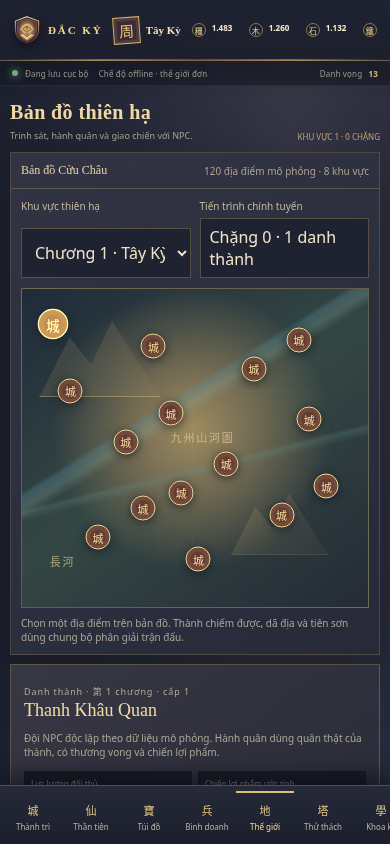
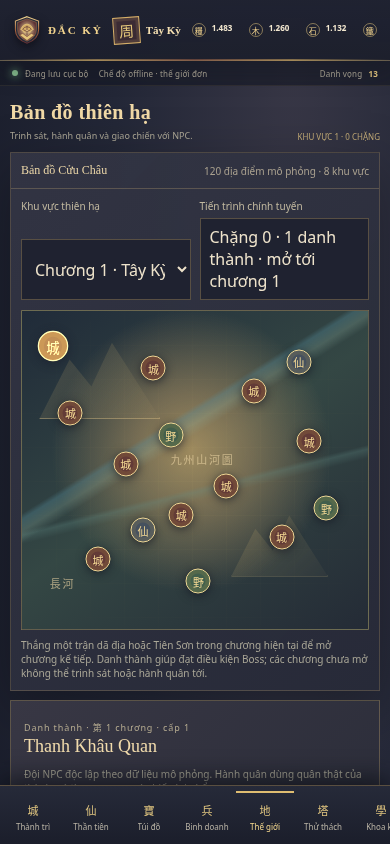
Gate Dacky campaign by chapter progress

Changed region(s): [[0.0308, 0.2773, 0.9538, 0.9242], [0.2154, 0.6161, 0.2769, 0.6777]]

diff --git a/DackyMobile/src/ui.js b/DackyMobile/src/ui.js
@@ -1,5 +1,5 @@
 import { BUILDINGS, CONTENT_EVIDENCE, HEROES, IMMORTAL_MOUNTAINS, ITEMS, QUESTS, RESOURCE_INFO, TECHNOLOGIES, TROOPS, WORLD_NODES, BUZHOU_FLOORS, TOWER_FLOORS } from './catalog.js';
-import { activeQuest, armyCount, armyPower, formatDuration, formatNumber, heroPower, productionPerHour, questProgress, quoteBuilding, quoteCityUpgrade, quoteItemPurchase, quoteResearch, quoteTraining, storageCapacity, TAX_POLICIES, TUTORIAL_STEPS } from './engine.js';
+import { activeQuest, armyCount, armyPower, formatDuration, formatNumber, heroPower, productionPerHour, questProgress, quoteBuilding, quoteCityUpgrade, quoteItemPurchase, quoteResearch, quoteTraining, storageCapacity, TAX_POLICIES, TUTORIAL_STEPS, unlockedChapter } from './engine.js';
 
 export const NAV = [
   ['city','城','Thành trì','Nội thành, kinh tế và hàng đợi'],
@@ -205,7 +205,9 @@ function inventoryScreen(state, _now, uiState={}) {
 }
 
 function worldScreen(state, uiState) {
-  const chapter = Math.max(1, Number(uiState.chapter) || 1);
+  const unlocked=unlockedChapter(state);
+  const chapter = Math.min(unlocked,Math.max(1, Number(uiState.chapter) || 1));
+  uiState.chapter=chapter;
   const nodes = WORLD_NODES.filter(n=>n.chapter===chapter);
   const selected = nodes.find(n=>n.id===uiState.nodeId) || nodes[0];
   if (selected && uiState.nodeId !== selected.id) uiState.nodeId = selected.id;
@@ -214,7 +216,7 @@ function worldScreen(state, uiState) {
   const selectedTroop = state.army[Object.keys(state.army)[0]] || 0;
   const bossLocked = selected.isBoss && !state.world.campaignComplete && (state.stats.victories < 20 || state.stats.citiesCaptured < 7);
   const target = `<article class="target-card"><span class="target-kind">${selected.kind} · 第 ${selected.chapter} chương · cấp ${selected.level}</span><h2 class="target-name">${esc(selected.name)}</h2><p class="tiny muted">${selected.isBoss ? state.world.campaignComplete ? 'Trụ Vương đã bại trận. Triều Ca vẫn mở để tái chiến và chinh phục endgame.' : 'Đại Boss chiến dịch. Cần 20 trận thắng và 7 danh thành; thắng trận này sẽ mở kết cục Phong Thần.' : 'Đội NPC độc lập theo dữ liệu mô phỏng. Hành quân dùng quân thật của thành, có thương vong và chiến lợi phẩm.'}</p><div class="target-stats"><div class="target-stat"><small>Lực lượng đối thủ</small><b>${fmt(selected.power)}</b></div><div class="target-stat"><small>Chiến lợi phẩm ước tính</small><b>${costText(selected.loot)}</b></div></div><div class="field-row"><div class="field"><label for="march-unit">Đạo quân</label><select id="march-unit" class="input">${armyOptions || '<option>Chưa có quân</option>'}</select></div><div class="field"><label for="march-count">Số quân điều động</label><input id="march-count" class="input" type="number" min="1" max="${selectedTroop}" value="${Math.min(18,selectedTroop)||1}" inputmode="numeric"></div></div><div class="field-row" style="margin-top:8px">${button('scout','Trinh sát',state.resources.gold<12+selected.chapter*3,'button ghost','data-node="'+selected.id+'"')}${button('march',selected.isBoss&&state.world.campaignComplete?'Tái chiến Triều Ca':'Hành quân',!armyCount(state)||!!state.queues.march||Boolean(bossLocked),'button','data-node="'+selected.id+'"')}</div><div class="tiny muted" style="margin-top:7px">${selected.isBoss&&bossLocked?`Tiến trình mở khóa: ${Math.min(20,state.stats.victories)} / 20 thắng · ${Math.min(7,state.stats.citiesCaptured)} / 7 thành.`:state.world.scouted.includes(selected.id)?'Đã do thám. ':''}${state.queues.march?'Đội quân hiện đang hành quân.':bossLocked?'': 'Thời gian ước tính '+formatDuration(Math.max(7000,(7+selected.chapter*1.7)*1000))}</div></article>`;
-  return `<div class="world-layout"><section class="panel">${subheading('Bản đồ Cửu Châu','120 địa điểm mô phỏng · 8 khu vực')}<div class="panel-body"><div class="field-row" style="margin-bottom:10px"><div class="field"><label for="world-chapter">Khu vực thiên hạ</label><select id="world-chapter" class="input" data-change="chapter">${Array.from({length:8},(_,i)=>`<option value="${i+1}" ${chapter===i+1?'selected':''}>Chương ${i+1} · ${['Tây Kỳ','Thanh Khâu','Vân Mộng','Cửu Lê','Lạc Thủy','Bắc Minh','Phong Lăng','Quy Khư'][i]}</option>`).join('')}</select></div><div class="field"><label>Tiến trình chính tuyến</label><div class="input">Chặng ${fmt(state.world.storyStage)} · ${state.world.captures.length} danh thành</div></div></div><div class="world-map"><div class="map-river"></div><div class="map-mountain"></div><div class="map-mountain m2"></div><span class="map-label" style="left:43%;top:44%">九州山河圖</span><span class="map-label" style="left:8%;top:83%">長河</span>${pins}</div><div class="tiny muted" style="margin-top:8px">Chọn một địa điểm trên bản đồ. Thành chiếm được, dã địa và tiên sơn dùng chung bộ phân giải trận đấu.</div></div></section><aside class="map-side">${target}${queuePanel(state,Date.now())}<section class="panel">${subheading('Ngoại giao và liên minh NPC')}<div class="panel-body"><div class="hint">V1.0 ưu tiên chơi đơn ngoại tuyến. Thương nhân, bang hội và đối thủ là NPC mô phỏng; không có người chơi trực tiếp hoặc dịch vụ nhiều người.</div><div class="field-row" style="margin-top:9px">${button('view-market','Giao thương NPC',false,'button small')}${button('view-quests','Chính tuyến',false,'button ghost small')}</div></div></section></aside></div>`;
+  return `<div class="world-layout"><section class="panel">${subheading('Bản đồ Cửu Châu','120 địa điểm mô phỏng · 8 khu vực')}<div class="panel-body"><div class="field-row" style="margin-bottom:10px"><div class="field"><label for="world-chapter">Khu vực thiên hạ</label><select id="world-chapter" class="input" data-change="chapter">${Array.from({length:8},(_,i)=>`<option value="${i+1}" ${chapter===i+1?'selected':''} ${i+1>unlocked?'disabled':''}>Chương ${i+1} · ${['Tây Kỳ','Thanh Khâu','Vân Mộng','Cửu Lê','Lạc Thủy','Bắc Minh','Phong Lăng','Quy Khư'][i]}${i+1>unlocked?' · chưa mở':''}</option>`).join('')}</select></div><div class="field"><label>Tiến trình chính tuyến</label><div class="input">Chặng ${fmt(state.world.storyStage)} · ${state.world.captures.length} danh thành · mở tới chương ${unlocked}</div></div></div><div class="world-map"><div class="map-river"></div><div class="map-mountain"></div><div class="map-mountain m2"></div><span class="map-label" style="left:43%;top:44%">九州山河圖</span><span class="map-label" style="left:8%;top:83%">長河</span>${pins}</div><div class="tiny muted" style="margin-top:8px">Thắng một trận dã địa hoặc Tiên Sơn trong chương hiện tại để mở chương kế tiếp. Danh thành giúp đạt điều kiện Boss; các chương chưa mở không thể trinh sát hoặc hành quân tới.</div></div></section><aside class="map-side">${target}${queuePanel(state,Date.now())}<section class="panel">${subheading('Ngoại giao và liên minh NPC')}<div class="panel-body"><div class="hint">V1.0 ưu tiên chơi đơn ngoại tuyến. Thương nhân, bang hội và đối thủ là NPC mô phỏng; không có người chơi trực tiếp hoặc dịch vụ nhiều người.</div><div class="field-row" style="margin-top:9px">${button('view-market','Giao thương NPC',false,'button small')}${button('view-quests','Chính tuyến',false,'button ghost small')}</div></div></section></aside></div>`;
 }
 
 function pveScreen(state, _now, uiState={}) {
@@ -284,7 +286,7 @@ const screenMap = {
 
 export function renderScreen(state, activeView, uiState = {}) {
   const [name, description] = screenMap[activeView] || screenMap.city;
-  const aside = activeView === 'city' ? `TỬ VI THÀNH · CẤP ${state.levels.citadel}` : activeView === 'world' ? `KHU VỰC ${uiState.chapter || 1} · ${state.world.storyStage} CHẶNG` : `DANH VỌNG · ${fmt(state.fame)}`;
+  const aside = activeView === 'city' ? `TỬ VI THÀNH · CẤP ${state.levels.citadel}` : activeView === 'world' ? `KHU VỰC ${Math.min(unlockedChapter(state),uiState.chapter||1)} · ${state.world.storyStage} CHẶNG` : `DANH VỌNG · ${fmt(state.fame)}`;
   document.querySelector('#page-heading').innerHTML = title(name, description, aside);
   const screen = ({ city:cityScreen, heroes:heroScreen, inventory:inventoryScreen, army:armyScreen, world:worldScreen, pve:pveScreen, tech:techScreen, quests:questScreen, market:marketScreen, reports:reportsScreen, settings:settingsScreen })[activeView] || cityScreen;
   document.querySelector('#scene').innerHTML = screen(state, activeView === 'world' ? uiState : Date.now(), uiState);

diff --git a/DackyMobile/src/engine.js b/DackyMobile/src/engine.js
@@ -247,6 +247,10 @@ export function activeQuest(state) {
   return QUESTS.find(q => !state.claims.includes(q.id)) || null;
 }
 
+export function unlockedChapter(state) {
+  return clamp(1+Math.floor((Number(state?.world?.storyStage)||0)/3),1,8);
+}
+
 function costFor(baseCost, nextLevel) {
   return Object.fromEntries(Object.entries(baseCost).map(([key, value]) => [key, Math.max(0, Math.ceil(value * Math.pow(nextLevel, 1.35) * 0.42))]));
 }
@@ -628,6 +632,7 @@ export function doAction(state, action, now = Date.now()) {
       const node = WORLD_NODES.find(n => n.id === action.nodeId);
       if (!node) throw new Error('Không tìm thấy mục tiêu trên bản đồ.');
       if (node.isBoss && !s.world.campaignComplete && (s.stats.victories < 20 || s.stats.citiesCaptured < 7)) throw new Error('Cần ít nhất 20 trận thắng và 7 danh thành để mở chiến dịch cuối tại Triều Ca.');
+      if(node.chapter>unlockedChapter(s))throw new Error(`Cần chiến thắng tại dã địa hoặc Tiên Sơn ở chương ${unlockedChapter(s)} để mở chương ${node.chapter}.`);
       const troops = {};
       if(action.troops&&typeof action.troops==='object'){
         for(const [id,amount] of Object.entries(action.troops)){
@@ -734,6 +739,7 @@ export function doAction(state, action, now = Date.now()) {
     case 'diplomacy': {
       const node=WORLD_NODES.find(n=>n.id===action.nodeId);
       if(!node||node.kind!=='Danh thành')throw new Error('Chỉ có thể đề nghị minh ước với danh thành NPC.');
+      if(node.chapter>unlockedChapter(s))throw new Error(`Chưa mở chương ${node.chapter} để ngoại giao.`);
       if((s.levels.embassy||0)<1)throw new Error('Cần Bát Phương Quán cấp 1 để ngoại giao.');
       if(s.world.captures.includes(node.id))throw new Error('Danh thành này đã thuộc quyền quản lý của bạn.');
       if(s.world.treaties.includes(node.id))throw new Error('Đã ký minh ước với thành này.');
@@ -749,6 +755,7 @@ export function doAction(state, action, now = Date.now()) {
     case 'scout': {
       const node = WORLD_NODES.find(n => n.id === action.nodeId);
       if (!node) throw new Error('Không tìm thấy địa điểm.');
+      if(node.chapter>unlockedChapter(s))throw new Error(`Chưa mở chương ${node.chapter} để trinh sát.`);
       const scoutBaseCost=Math.max(4,12+node.chapter*3-(s.levels.watch||0));
       debit(s,{gold:Math.max(2,Math.ceil(scoutBaseCost*(1-Math.min(0.36,(s.technologies['tech-18']||0)*0.012))))});
       if (!s.world.scouted.includes(node.id)) s.world.scouted.push(node.id);

diff --git a/DackyMobile/tests/engine.test.js b/DackyMobile/tests/engine.test.js
@@ -1,6 +1,6 @@
 import test from 'node:test';
 import assert from 'node:assert/strict';
-import { advance, armyPower, createNewGame, doAction, heroPower, migrateSave, productionPerHour, questProgress, storageCapacity } from '../src/engine.js';
+import { advance, armyPower, createNewGame, doAction, heroPower, migrateSave, productionPerHour, questProgress, storageCapacity, unlockedChapter } from '../src/engine.js';
 import { HEROES, IMMORTAL_MOUNTAINS, ITEMS, QUESTS, TECHNOLOGIES, TROOPS, WORLD_NODES } from '../src/catalog.js';
 
 test('new save has a bounded, offline-first settlement', () => {
@@ -292,6 +292,26 @@ test('combined army orders accept multiple troop roles and settle each stack', (
   assert.ok(total<=58);
 });
 
+test('eight-chapter world catalog is balanced and chapters unlock through field victories', () => {
+  const chapters=Array.from({length:8},(_,i)=>WORLD_NODES.filter(node=>node.chapter===i+1));
+  assert.ok(chapters.every(rows=>rows.length===15));
+  assert.equal(WORLD_NODES.filter(node=>node.kind==='Danh thành').length,75);
+  assert.equal(WORLD_NODES.filter(node=>node.kind==='Dã địa').length,30);
+  assert.equal(WORLD_NODES.filter(node=>node.kind==='Tiên sơn').length,14);
+  const now=1_800_000_000_000;
+  let state=createNewGame('Triều Ca',now);
+  state.army['troop-01']=5000;
+  assert.equal(unlockedChapter(state),1);
+  assert.throws(()=>doAction(state,{type:'march',nodeId:'node-016',troopId:'troop-01',count:100},now+1),/chương 1 để mở chương 2/);
+  state=doAction(state,{type:'march',nodeId:'node-011',troopId:'troop-01',count:3000},now+2);
+  state=advance(state,state.queues.march.finishAt+1).state;
+  assert.equal(state.world.storyStage,3);
+  assert.equal(unlockedChapter(state),2);
+  state.army['troop-01']=5000;
+  state=doAction(state,{type:'march',nodeId:'node-016',troopId:'troop-01',count:3000},state.lastTickAt+1);
+  assert.equal(state.queues.march.nodeId,'node-016');
+});
+
 
 test('final boss is gated and a first victory records the campaign ending', () => {
   const now=1_800_000_000_000;
@@ -299,6 +319,7 @@ test('final boss is gated and a first victory records the campaign ending', () =
   assert.throws(()=>doAction(state,{type:'march',nodeId:'node-120',troopId:'troop-01',count:1},now+1),/20 trận thắng và 7 danh thành/);
   state.stats.victories=20;
   state.stats.citiesCaptured=7;
+  state.world.storyStage=21;
   state.world.captures=WORLD_NODES.filter(n=>n.kind==='Danh thành').slice(0,7).map(n=>n.id);
   state.army['troop-01']=6000;
   state=doAction(state,{type:'march',nodeId:'node-120',troopId:'troop-01',count:5000},now+2);

diff --git a/DackyMobile/src/catalog.js b/DackyMobile/src/catalog.js
@@ -191,10 +191,14 @@ export const QUESTS = Object.freeze([...campaignQuests,...longTailQuests,campaig
 const regionPrefixes = ['Thanh Khâu','Vân Mộng','Cửu Lê','Lạc Thủy','Bắc Minh','Tây Kỳ','Phong Lăng','Quy Khư','Hoàng Hà','Thái Hư','Tử Tiêu','Huyền Cơ','Bạch Lộc','Thương Sơn','Côn Ngô'];
 const regionSuffixes = ['Quan','Trấn','Đài','Cốc','Sơn','Bến','Lĩnh','Thành'];
 export const WORLD_NODES = Object.freeze(Array.from({ length: 120 }, (_, i) => {
-  const isCity = i < 75;
-  const isField = i >= 75 && i < 105;
+  const chapterIndex=Math.floor(i/15);
+  const localIndex=i%15;
+  const citiesInChapter=chapterIndex<3?10:9;
+  const fieldsInChapter=chapterIndex<3?3:chapterIndex===7?5:4;
+  const isCity=localIndex<citiesInChapter;
+  const isField=localIndex>=citiesInChapter&&localIndex<citiesInChapter+fieldsInChapter;
   const isBoss = i === 119;
-  const chapter = Math.floor(i / 15) + 1;
+  const chapter = chapterIndex + 1;
   const generatedName = `${regionPrefixes[Math.floor(i / regionSuffixes.length) % regionPrefixes.length]} ${regionSuffixes[i % regionSuffixes.length]}`;
   const name = isBoss ? 'Triều Ca · Trụ Vương' : generatedName;
   return { id: `node-${String(i + 1).padStart(3,'0')}`, name, kind: isBoss ? 'Boss chiến dịch' : isCity ? 'Danh thành' : isField ? 'Dã địa' : 'Tiên sơn', isBoss, chapter,

diff --git a/DackyMobile/PROGRESS.md b/DackyMobile/PROGRESS.md
@@ -4,7 +4,7 @@ Cập nhật: 2026-11-24 · Nhánh: feature/dacky-mobile-complete-20261124
 
 ## Checkpoint
 
-- HEAD lúc bắt đầu: 4023325d441a7f818f7346586b1ee6e19943a5cc (origin/feature/dacky-mobile-complete-20261124). Các checkpoint gần: 319480ff27224f26c6d6283bbc7fd738dd3b520f, bc8b3bc6e6fe91e2f15e2e73114f438ce26f6fe3, 0fb5cf62a64af15703e96c95d2444e6f7331216e; batch tutorial bắt đầu tại 0fb5cf62a64af15703e96c95d2444e6f7331216e, batch thành phụ hiện tại tại 86dce96e1247f4e927b9037d85febd8defc848e0.
+- HEAD lúc bắt đầu: 4023325d441a7f818f7346586b1ee6e19943a5cc (origin/feature/dacky-mobile-complete-20261124). Các checkpoint gần: 319480ff27224f26c6d6283bbc7fd738dd3b520f, bc8b3bc6e6fe91e2f15e2e73114f438ce26f6fe3, 0fb5cf62a64af15703e96c95d2444e6f7331216e, 86dce96e1247f4e927b9037d85febd8defc848e0; batch thành phụ bắt đầu tại 86dce96e1247f4e927b9037d85febd8defc848e0, batch chương hiện tại tại ffcfac99b6362b9496bb5615a4904492adf0299f.
 - Codebase web độc lập, offline-first: thành trì, sáu tài nguyên, 21 công trình tới cấp 30, sản xuất theo giờ, queue xây/nghiên cứu/huấn luyện/hành quân, 39 binh chủng mô phỏng, đủ 540 thần tiên mô phỏng, túi đồ/rèn, khoa kỹ, 1.158 nhiệm vụ, 120 địa điểm chiến dịch có Boss Trụ Vương và 624 Tiên Sơn thử thách riêng, chiến báo, Phong Thần Tháp và 5 cửa Bất Chu.
 - Chiến dịch mô phỏng có 8 chương, 1.158 mục tiêu, mở Boss Trụ Vương sau 20 thắng/7 thành; thắng đầu lưu cờ kết cục, thưởng duy nhất và cho phép tiếp tục endgame.
 - Gameplay loop đã nối: nâng công trình → huấn luyện/chiêu mộ/trang bị → hành quân nhiều stack → combat/tổn thất/loot → nâng cấp/nhiệm vụ → save/reload. Capture thành phụ, sản lượng bổ sung, minh hội NPC và minh ước NPC có runtime. Mô hình gameplay là độc lập `SIMULATED`, chưa đối chiếu client Mobile.
@@ -13,12 +13,13 @@ Cập nhật: 2026-11-24 · Nhánh: feature/dacky-mobile-complete-20261124
 - Khoa kỹ 19 nhánh/570 cấp nay tác động vào kinh tế, xây dựng, huấn luyện, quân chuyên môn, combat, hồi phục, hành quân, thần tiên, trinh sát và giao thương/ngoại giao.
 - Chỉ dẫn tân thủ 7 mốc tự kiểm tra tiến trình xây/nghiên cứu/chiêu mộ/trang bị/huấn luyện/chiến đấu; các nút hướng dẫn thực thi gameplay thật và chỉ tiến bước khi đạt điều kiện.
 - Thành phụ đã có giao diện quản lý, nâng cấp qua hàng xây dựng, mở theo cấp Tử Vi và tăng năm loại sản lượng theo cấp.
+- 120 điểm thế giới được tái phân bổ theo tám chương, đủ 75 thành/30 dã địa/14 Tiên Sơn/1 Boss; thắng dã địa hoặc Tiên Sơn mới mở chương kế tiếp; march/scout/ngoại giao bị khóa theo tiến độ.
 
 ## Kiểm chứng thực tế
 
-- `npm test`: PASS 18/18 engine tests, gồm tutorial đầu-cuối, thành phụ, catalog, Tiên Sơn/Boss, mua/dùng vật phẩm, XP-kỹ năng, pháp môn combat, 19 nhánh khoa kỹ và thuế/dân tâm.
+- `npm test`: PASS 19/19 engine tests, gồm tutorial đầu-cuối, thành phụ, phân phối/gating 8 chương, catalog, Tiên Sơn/Boss, mua/dùng vật phẩm, XP-kỹ năng, pháp môn combat, 19 nhánh khoa kỹ và thuế/dân tâm.
 - `npm run build`: PASS; build Web, `dist/offline.html` và `dist/data/dacky-game-data.simulated.v1.json`; kiểm tra JSON xác nhận 4.676 record SIMULATED trên 8 bảng.
-- Chromium integration: PASS onboarding và thẻ chỉ dẫn, 21 công trình, quản lý thành phụ đã chiếm, 11 màn hình, đổi chính sách thuế, phân trang/mua vật phẩm, nâng công trình, chiêu mộ, trang bị, huấn luyện, hành quân nhiều stack, loot/chiến báo, IndexedDB reload, viewport 390×844 và 844×390; 0 lỗi console/runtime. Ảnh ở `qa/screenshots/`.
+- Chromium integration: PASS onboarding và thẻ chỉ dẫn, 21 công trình, quản lý thành phụ đã chiếm, khóa chương bản đồ, 11 màn hình, đổi chính sách thuế, phân trang/mua vật phẩm, nâng công trình, chiêu mộ, trang bị, huấn luyện, hành quân nhiều stack, loot/chiến báo, IndexedDB reload, viewport 390×844 và 844×390; 0 lỗi console/runtime. Ảnh ở `qa/screenshots/`.
 - PWA: PASS mở lại entrypoint khi tắt mạng và shell đã được cache.
 - Hạn chế môi trường: Chromium trả `chrome-error://chromewebdata/` với URL `file://.../offline.html`; bundle inline đã qua syntax check. Thiếu Android SDK/Gradle nên APK/AAB chưa build. Không tuyên bố V1.0 hoàn thành.
 
@@ -35,7 +36,7 @@ Cập nhật: 2026-11-24 · Nhánh: feature/dacky-mobile-complete-20261124
 
 ## Bước tiếp theo
 
-1. Mở rộng campaign NPC, nội dung nhiệm vụ và hướng đi endgame; cân bằng tốc độ từ đầu game tới Boss Trụ Vương và tiếp tục chinh phục.
+1. Tăng chiều sâu từng chương và NPC, nhịp nhiệm vụ, chiến thuật đội hình và hoạt động endgame; cân bằng từ đầu game tới Boss Trụ Vương và tiếp tục chinh phục.
 2. Khi có Android SDK/Gradle, tạo project Capacitor native, build/cài APK và kiểm tra luồng cốt lõi.
 3. Khi dữ liệu nguồn được cung cấp hoặc proxy cho phép, xác minh Mobile riêng, nhập dữ liệu hợp pháp và cập nhật `DATA_COVERAGE.json`.
 4. Giữ nhánh feature/dacky-mobile-complete-20261124 làm checkpoint hiện tại. Tiếp tục bằng các mục P0–P7 còn mở; không merge, không force-push, không đụng Heroes/Mưu Định Tam Quốc.

diff --git a/DackyMobile/DECISIONS.md b/DackyMobile/DECISIONS.md
@@ -26,3 +26,4 @@
 - Cả 19 nhánh khoa kỹ có hiệu ứng runtime: bốn tài nguyên, tăng dân số, xây/nghiên cứu/huấn luyện, tấn công/phòng thủ và chuyên môn kỵ/xạ, hồi thương, tương khắc, hành quân, lực chiến thần tiên, phí trinh sát và giao thương/ngoại giao. Các hệ số hiển thị đúng theo nhánh và đều SIMULATED.
 - Chỉ dẫn tân thủ có bảy mốc dựa trên trạng thái gameplay đã lưu. Các hành động đề xuất gọi cùng action runtime và bước kế tiếp chỉ mở sau khi queue/trận thật hoàn tất; save cũ tự xác định lại bước từ thành tựu, không thể nhấn để bỏ qua.
 - Danh thành chiếm đóng trở thành thành phụ có thể nâng tới cấp 10 qua cùng hàng xây dựng; cấp thành phụ tăng cả năm sản lượng, và điều kiện Tử Vi Thành giới hạn cấp tiếp theo. Save queue xác thực thành phụ thuộc danh sách thành đã chiếm.
+- 120 điểm thế giới được chia thành tám chương, mỗi chương có 15 NPC với thành, dã địa và tiên sơn phân bổ. Thắng ở dã địa/Tiên Sơn của chương hiện tại mở chương tiếp theo; march, scout và ngoại giao chặn mục tiêu chưa mở. Điều kiện Boss cuối vẫn yêu cầu tiến trình chương, 20 trận thắng và bảy danh thành.

diff --git a/DackyMobile/docs/GAMEPLAY_WIKI.md b/DackyMobile/docs/GAMEPLAY_WIKI.md
@@ -35,6 +35,10 @@ Roster có 540 hồ sơ thần tiên mô phỏng, hiển thị theo trang; Tiên
 
 Runtime có 39 loại binh chủng theo vai trò bộ binh, xạ thủ, kỵ binh, công thành, trinh sát và đạo binh. Quân huấn luyện vào kho thành sau khi queue kết thúc. Một lệnh hành quân có thể kết hợp nhiều loại quân; chọn số lượng chính và mở phần hỗ trợ để tận dụng tương khắc vai trò. Tốc độ, đội hình và sĩ khí điều chỉnh sức mạnh. Combat seeded tối đa sáu hiệp; chiến thắng ghi danh vọng/loot, quân chết mất, quân bị thương đi vào Hồi Xuân Đường.
 
+## Bản đồ và chiến dịch
+
+120 NPC được chia thành tám chương, mỗi chương 15 địa điểm gồm danh thành, dã địa và Tiên Sơn. Chương đầu mở sẵn; thắng ở dã địa hoặc Tiên Sơn trong chương đang mở mới tiến sang chương kế tiếp. Mục tiêu chương chưa mở không nhận trinh sát, hành quân hoặc ngoại giao. Trụ Vương cần mở tới chương tám, đạt 20 trận thắng và chiếm bảy danh thành; đây là điều kiện thiết kế SIMULATED.
+
 ## Thử thách
 
 - Phong Thần Tháp: leo tối đa 8992 tầng procedural, độ khó tăng theo tầng; thắng thưởng tài nguyên, kinh nghiệm và một số pháp bảo theo mốc.
